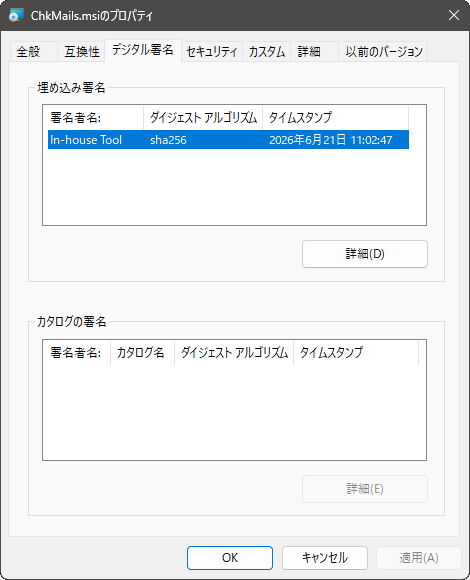
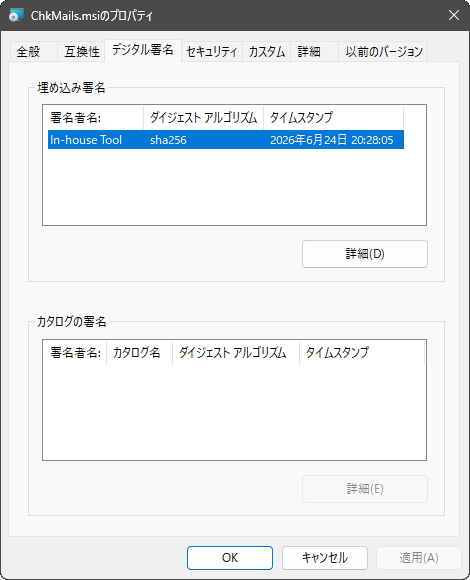
[MOD] for 1.1.14

Changed region(s): [[0.2085, 0.5897, 0.8043, 0.6207], [0.5362, 0.1862, 0.8936, 0.2483]]

diff --git a/Installation/README.md b/Installation/README.md
@@ -89,7 +89,7 @@
 ## [インストーラーの確認](#readme)
 
 正規品最新版の `ChkMails.msi` は, Explorer で右クリックしてプロパティーを見ると,
-`デジタル署名` のタブで下記のように `2026年6月21日` 付けのデジタル署名が付いていることが確認できます.
+`デジタル署名` のタブで下記のように `2026年6月24日` 付けのデジタル署名が付いていることが確認できます.
 
 ![](./prop.png)
 
@@ -110,9 +110,9 @@
 これをどう読み解くかというと,
 
 1. 署名者である `In-house Tool` とやらが署名を施したのが
-`2026年6月21日 11:02:47`
+`2026年6月24日 20:28:05`
 1. この署名に立ち会った `DigiCert` が 副署名を施したのも
-`2026年6月21日 11:02:47`
+`2026年6月24日 20:28:05`
 
 と, 両者の日時が一致しています.
 上記 1. だけなら署名者が自分の PC の時計をいじくって日時を捏造することも可能かもしれませんが,
@@ -128,10 +128,10 @@
 なので, あなたがゲットした `.msi` の署名も同様に確認してみましょう.
 
 日時が
-`2026年6月21日 11:02:47`
+`2026年6月24日 20:28:05`
 に一致していたらそれは正規品です.
 ソースを開示している原作者 `In-house Tool` が, その本人しか書き込めないこのページ上でこうして
-`2026年6月21日 11:02:47`
+`2026年6月24日 20:28:05`
 だと明言しているのですから, 間違いありません.
 
 > [!NOTE]
@@ -163,10 +163,8 @@
 だったらついでにこのページからダウンロードしていけばええんちゃう？
 とか考えてもええんちゃう？
 
-* インストールされる `ChkMails.exe` にも署名があり, `2026年6月21日 11:02:42` となっています.
+* インストールされる `ChkMails.exe` にも署名があり, `2026年6月24日 20:28:01` となっています.
 インストール後にでもご確認ください.
-* 同梱されている `CharaMap.exe` の署名も, 同じく `2026年6月21日 11:02:43` となっています.
-併せてご確認ください.
 
 `ChkMails.msi` が正規品最新版であることはご確認いただけましたか?
 では, その `.msi` を実行 ( ダブルクリックとか ) して[インストール](#インストール)を開始しましょう.
@@ -236,7 +234,7 @@
 ![](./inst.3.png)
 <br>
 <sup>
-▲ 「インストーラーは準備万端」と言ってくるインストーラー
+▲ 「インストーラーはインストールする準備ができてる」と言ってくるインストーラー
 </sup>
 
 「インストールを始めるには "[次へ]" をクリックしてください。」的なことを言っているので,
